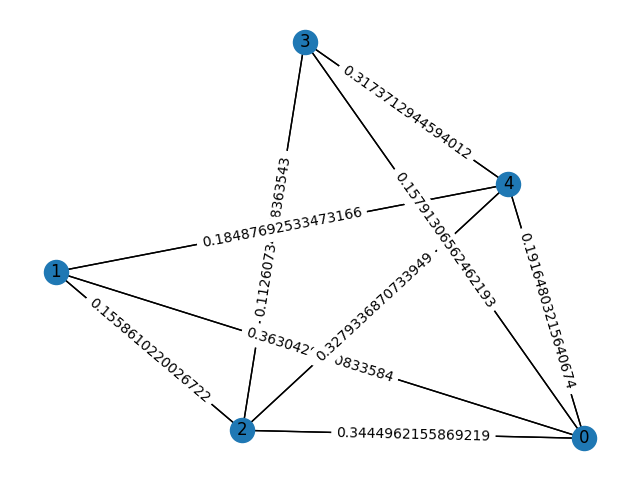
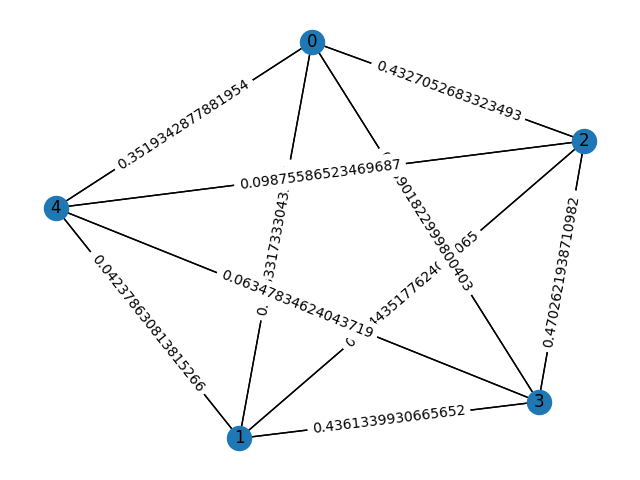
correction du nombre de reps qui apparaissait juste dans la visualisation

diff --git a/scripts/automatisation_harsh/main.py b/scripts/automatisation_harsh/main.py
@@ -21,7 +21,7 @@ def main():
 
     # Code pour une matrice générée aléatoirement :
     num_nodes = 5
-    random_adj_matrix = generate_random_adjacency_matrix(num_nodes, num_zeros_to_add=2)
+    random_adj_matrix = generate_random_adjacency_matrix(num_nodes, num_zeros_to_add=1)
     mat_adj = np.array(random_adj_matrix)
     save_adjacency_matrix_to_csv(
         random_adj_matrix,
@@ -32,6 +32,7 @@ def main():
     df = pd.read_csv(
         r"scripts\automatisation_harsh\matrices\random_adjacency_matrix.csv"
     )
+    # mat_adj = np.array(df)
 
     # Visualisation et détermination du nombre de noeuds dans le graphe :
     num_nodes = visualize_num_nodes(df, mat_adj)
@@ -51,7 +52,7 @@ def main():
 
     # Le terme associé au respect de la contrainte de fin :
     # Déterminer le noeud de fin :
-    noeud_de_fin = 2
+    noeud_de_fin = 3
     hfin1 = hfin(noeud_de_fin, depart, q_indices, destination, number_of_edges)
 
     hint1 = hint(
@@ -72,7 +73,7 @@ def main():
 
     # Nombre de processeurs :
     nbr_processes = multiprocessing.cpu_count()
-
+    reps = 3  # utilisateur peut changer la valeur de reps
     pool = multiprocessing.Pool(nbr_processes)
     results = pool.map(
         _find_shortest_path_parallel,
@@ -82,6 +83,7 @@ def main():
             itertools.repeat(hfin1),
             itertools.repeat(hint1),
             alphas,
+            itertools.repeat(reps),
         ),
     )
     pool.close()
@@ -92,8 +94,6 @@ def main():
         print(results[i][0])
         print(f"Minimum cost: {results[i][1]}")
         print()
-
-        reps = 3  # utilisateur peut changer la valeur de reps
 
         alpha_min_costs.append(results[i][2])
         visualize(

diff --git a/scripts/automatisation_harsh/qaoa_path.py b/scripts/automatisation_harsh/qaoa_path.py
@@ -19,6 +19,7 @@ def _find_shortest_path_parallel(args):
     hfin1 = args[2]
     hint1 = args[3]
     alpha = args[4]
+    reps = args[5]
 
     # Fonction coût en représentation QUBO:
     h = -hc1 + alpha * ((hdep1**2) + (hfin1**2) + hint1)
@@ -31,7 +32,7 @@ def _find_shortest_path_parallel(args):
     print("v", v)
 
     # Create QAOA circuit.
-    ansatz = QAOAAnsatz(h, reps=1)
+    ansatz = QAOAAnsatz(h, reps)
 
     # print(ansatz.decompose(reps=1).draw())
 

diff --git a/scripts/automatisation_harsh/visualize_paths_opt.py b/scripts/automatisation_harsh/visualize_paths_opt.py
@@ -78,7 +78,7 @@ def visualize(
     # plt.tight_layout()
     plt.legend(
         [
-            f"Chemin optimal pour alpha = {alpha:.2f},\nMinimum cost: {min_cost}\n Noeud de départ : {noeud_de_depart}, \n Noeud de fin : {noeud_de_fin},\n reps : {reps}"
+            f"alpha = {alpha:.2f},\n Coût: {min_cost:.2f}\n Noeud de départ : {noeud_de_depart}, \n Noeud de fin : {noeud_de_fin},\n reps : {reps}"
         ],
         loc="upper right",
     )
